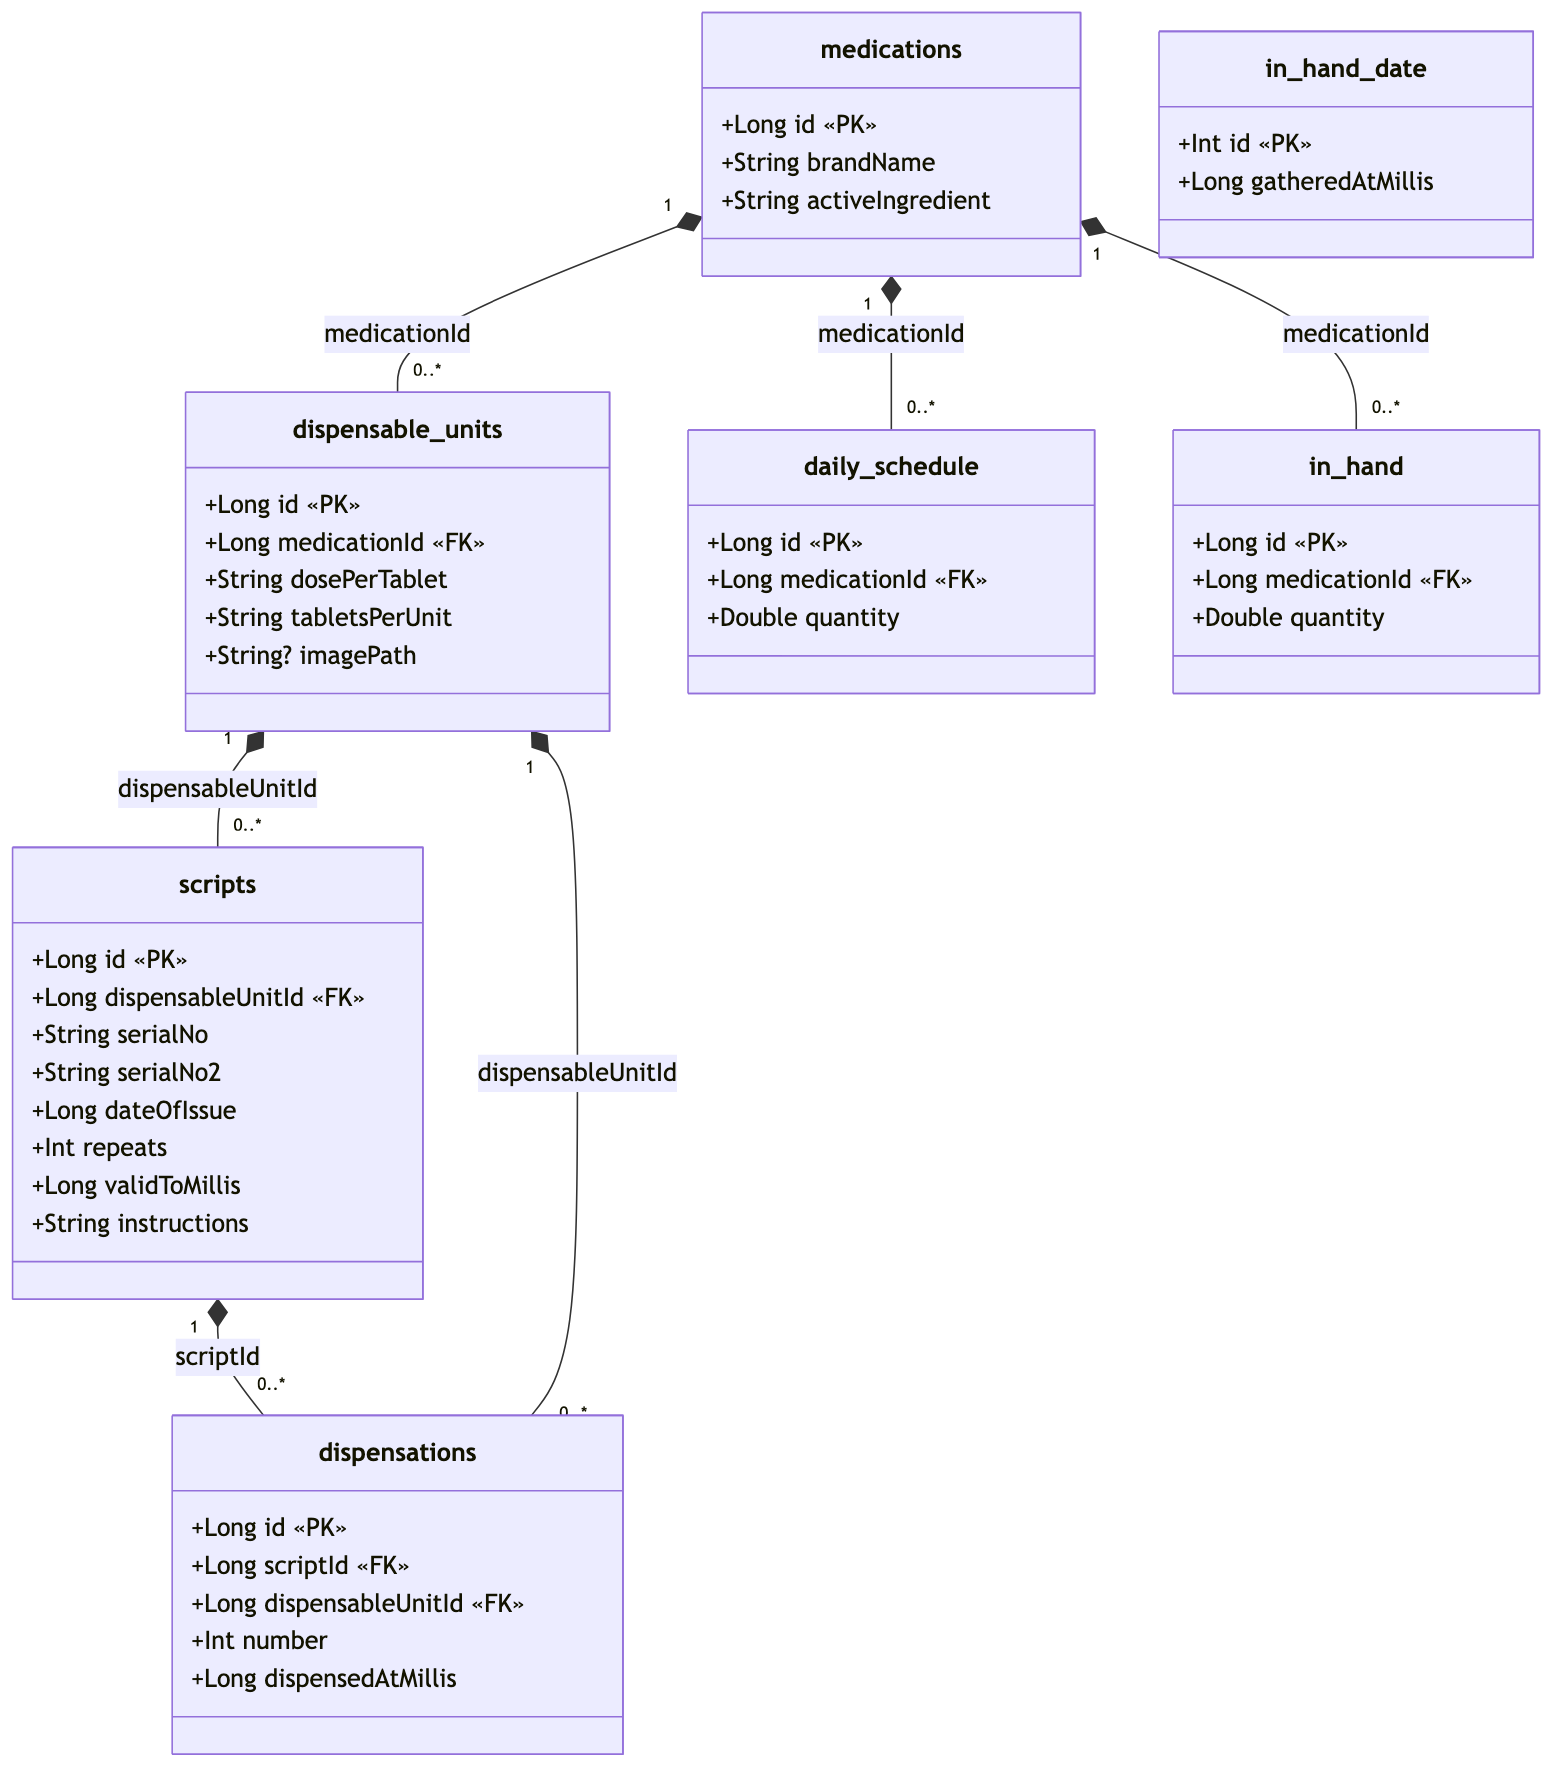
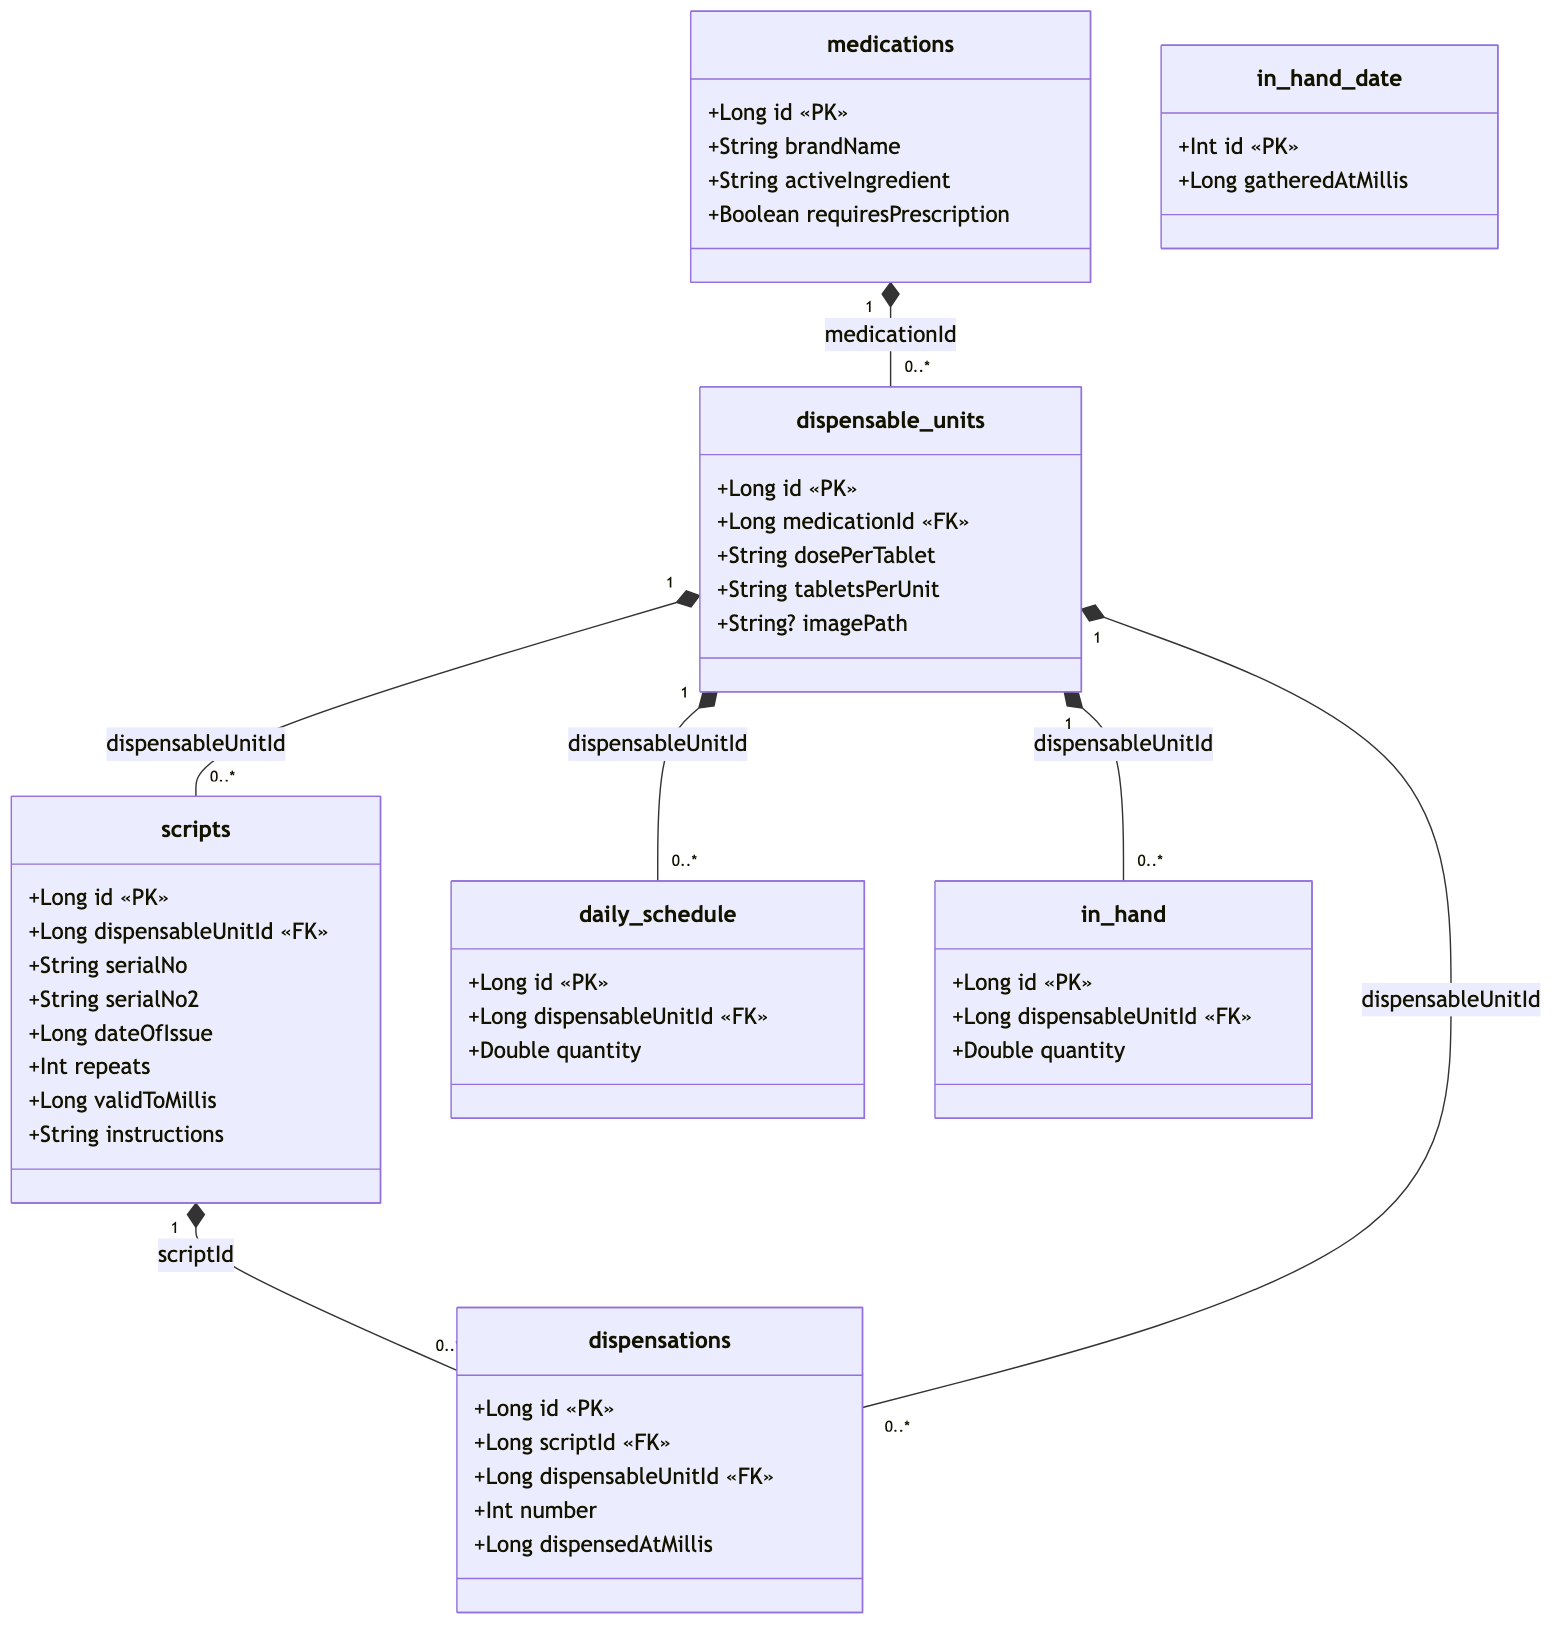
docs: bring DATABASE_SCHEMA up to date (v23 -> v26)
The schema doc had drifted three versions behind the code. Update it to match the
current entities (DATABASE_SCHEMA_VERSION = 26):

- medications: add requiresPrescription (INTEGER, default 1) — added in MIGRATION_23_24.
- daily_schedule: re-keyed from medicationId to dispensableUnitId (MIGRATION_25_26).
- in_hand: re-keyed from medicationId to dispensableUnitId (MIGRATION_24_25).
- Relationships + the Mermaid UML source updated accordingly, and the rendered
  database-schema.png regenerated from it.
- Notes: correct the migration story (the app now ships hand-written migrations via
  ALL_MIGRATIONS, with destructive migration only as a fallback), and note that user
  preferences live in SharedPreferences (not the DB, hence not in the backup).

diff --git a/docs/DATABASE_SCHEMA.md b/docs/DATABASE_SCHEMA.md
@@ -1,6 +1,6 @@
 # Database Schema
 
-**Database:** `aitoui.db` (Room) · **version:** 23 · **package:** `com.example.aitoui.data`
+**Database:** `aitoui.db` (Room) · **version:** 26 · **package:** `com.example.aitoui.data`
 
 The schema models prescriptions and pharmacy dispensing as a chain:
 
@@ -25,6 +25,7 @@ A medication, identified by its brand name and active ingredient.
 | `id` | INTEGER | PK, auto-generated | |
 | `brandName` | TEXT | not null | |
 | `activeIngredient` | TEXT | not null | |
+| `requiresPrescription` | INTEGER | not null, default `1` | boolean (`1` = needs a prescription). Drives the "no scripts"/"get a script" attention messages. Added in `MIGRATION_23_24`. |
 
 ### `dispensable_units`
 A specific format (dosage/packaging) of a medication — a dispensable unit.
@@ -68,24 +69,25 @@ script's `number` values is its derived "dispensed" total.
 | `dispensedAtMillis` | INTEGER | not null | recorded at save time, epoch millis |
 
 ### `daily_schedule`
-The daily medication schedule: how many tablets of each medication are taken every day. The Daily
-Schedule screen replaces the whole table on save.
+The daily medication schedule: how many tablets of each dispensable unit are taken every day. Keyed per
+dispensable unit (dose/format), not per medication, since `MIGRATION_25_26`. The Daily Schedule screen
+replaces the whole table on save.
 
 | Column | Type | Constraints | Notes |
 |---|---|---|---|
 | `id` | INTEGER | PK, auto-generated | |
-| `medicationId` | INTEGER | **FK → `medications.id`** (ON DELETE CASCADE), indexed | the medication taken |
+| `dispensableUnitId` | INTEGER | **FK → `dispensable_units.id`** (ON DELETE CASCADE), indexed | the unit taken |
 | `quantity` | REAL | not null | tablets taken per day (may be fractional, e.g. `0.5`) |
 
 ### `in_hand`
-Tablets currently in the user's possession — dispensed but not yet consumed. Recording a dispensation
-(from the Scripts screen) adds that many tablets here; the In Hand screen replaces the whole table on
-save.
+Tablets currently in the user's possession — dispensed but not yet consumed. Keyed per dispensable unit
+(dose/format), not per medication, since `MIGRATION_24_25`. Recording a dispensation (from the Scripts
+screen) adds that many tablets here; the In Hand screen replaces the whole table on save.
 
 | Column | Type | Constraints | Notes |
 |---|---|---|---|
 | `id` | INTEGER | PK, auto-generated | |
-| `medicationId` | INTEGER | **FK → `medications.id`** (ON DELETE CASCADE), indexed | the medication in hand |
+| `dispensableUnitId` | INTEGER | **FK → `dispensable_units.id`** (ON DELETE CASCADE), indexed | the unit in hand |
 | `quantity` | REAL | not null | tablets in hand (may be fractional) |
 
 ### `in_hand_date`
@@ -106,8 +108,8 @@ and each save overwrites the one row, so it never grows. Standalone — no forei
 - `dispensable_units` **1 — N** `scripts` (`scripts.dispensableUnitId`) — many scripts per unit
 - `scripts` **1 — N** `dispensations` (`dispensations.scriptId`)
 - `dispensable_units` **1 — N** `dispensations` (`dispensations.dispensableUnitId`)
-- `medications` **1 — N** `daily_schedule` (`daily_schedule.medicationId`)
-- `medications` **1 — N** `in_hand` (`in_hand.medicationId`)
+- `dispensable_units` **1 — N** `daily_schedule` (`daily_schedule.dispensableUnitId`)
+- `dispensable_units` **1 — N** `in_hand` (`in_hand.dispensableUnitId`)
 
 `in_hand_date` is standalone (single-row, no foreign key). All foreign keys use `ON DELETE CASCADE`.
 
@@ -131,6 +133,7 @@ classDiagram
         +Long id «PK»
         +String brandName
         +String activeIngredient
+        +Boolean requiresPrescription
     }
     class dispensable_units {
         +Long id «PK»
@@ -158,12 +161,12 @@ classDiagram
     }
     class daily_schedule {
         +Long id «PK»
-        +Long medicationId «FK»
+        +Long dispensableUnitId «FK»
         +Double quantity
     }
     class in_hand {
         +Long id «PK»
-        +Long medicationId «FK»
+        +Long dispensableUnitId «FK»
         +Double quantity
     }
     class in_hand_date {
@@ -174,8 +177,8 @@ classDiagram
     dispensable_units "1" *-- "0..*" scripts : dispensableUnitId
     scripts "1" *-- "0..*" dispensations : scriptId
     dispensable_units "1" *-- "0..*" dispensations : dispensableUnitId
-    medications "1" *-- "0..*" daily_schedule : medicationId
-    medications "1" *-- "0..*" in_hand : medicationId
+    dispensable_units "1" *-- "0..*" daily_schedule : dispensableUnitId
+    dispensable_units "1" *-- "0..*" in_hand : dispensableUnitId
 ```
 
 </details>
@@ -184,8 +187,15 @@ classDiagram
 
 ## Notes
 
-- Schema changes during development use Room's `fallbackToDestructiveMigration(dropAllTables = true)`
-  (see `AitouiApp`), so bumping the `@Database` version recreates and re-seeds the database rather than
-  running hand-written migrations.
+- Schema changes are covered by **hand-written migrations** (`Migrations.kt`, spread into
+  `addMigrations(*ALL_MIGRATIONS)` in `AitouiApp`), so bumping the `@Database` version preserves existing
+  data across the versions they cover. Current history: `21→22` (adds `scripts.instructions`), `22→23`,
+  `23→24` (adds `medications.requiresPrescription`), `24→25` (re-keys `in_hand` to `dispensableUnitId`),
+  `25→26` (re-keys `daily_schedule` to `dispensableUnitId`). `fallbackToDestructiveMigration(dropAllTables
+  = true)` remains only as a safety net for any version jump **not** covered by a migration (it recreates
+  and re-seeds instead of crashing).
 - In debug builds the database is auto-seeded on first launch with a moderate amount of sample data
   (see `DatabaseSeeder`).
+- User **preferences** (e.g. the attention-message "warning window") are **not** in this database — they
+  live in `SharedPreferences` (`SettingsRepository`), and are therefore excluded from the Save/Load backup,
+  which captures only `aitoui.db` and the unit images (see `BackupManager`).